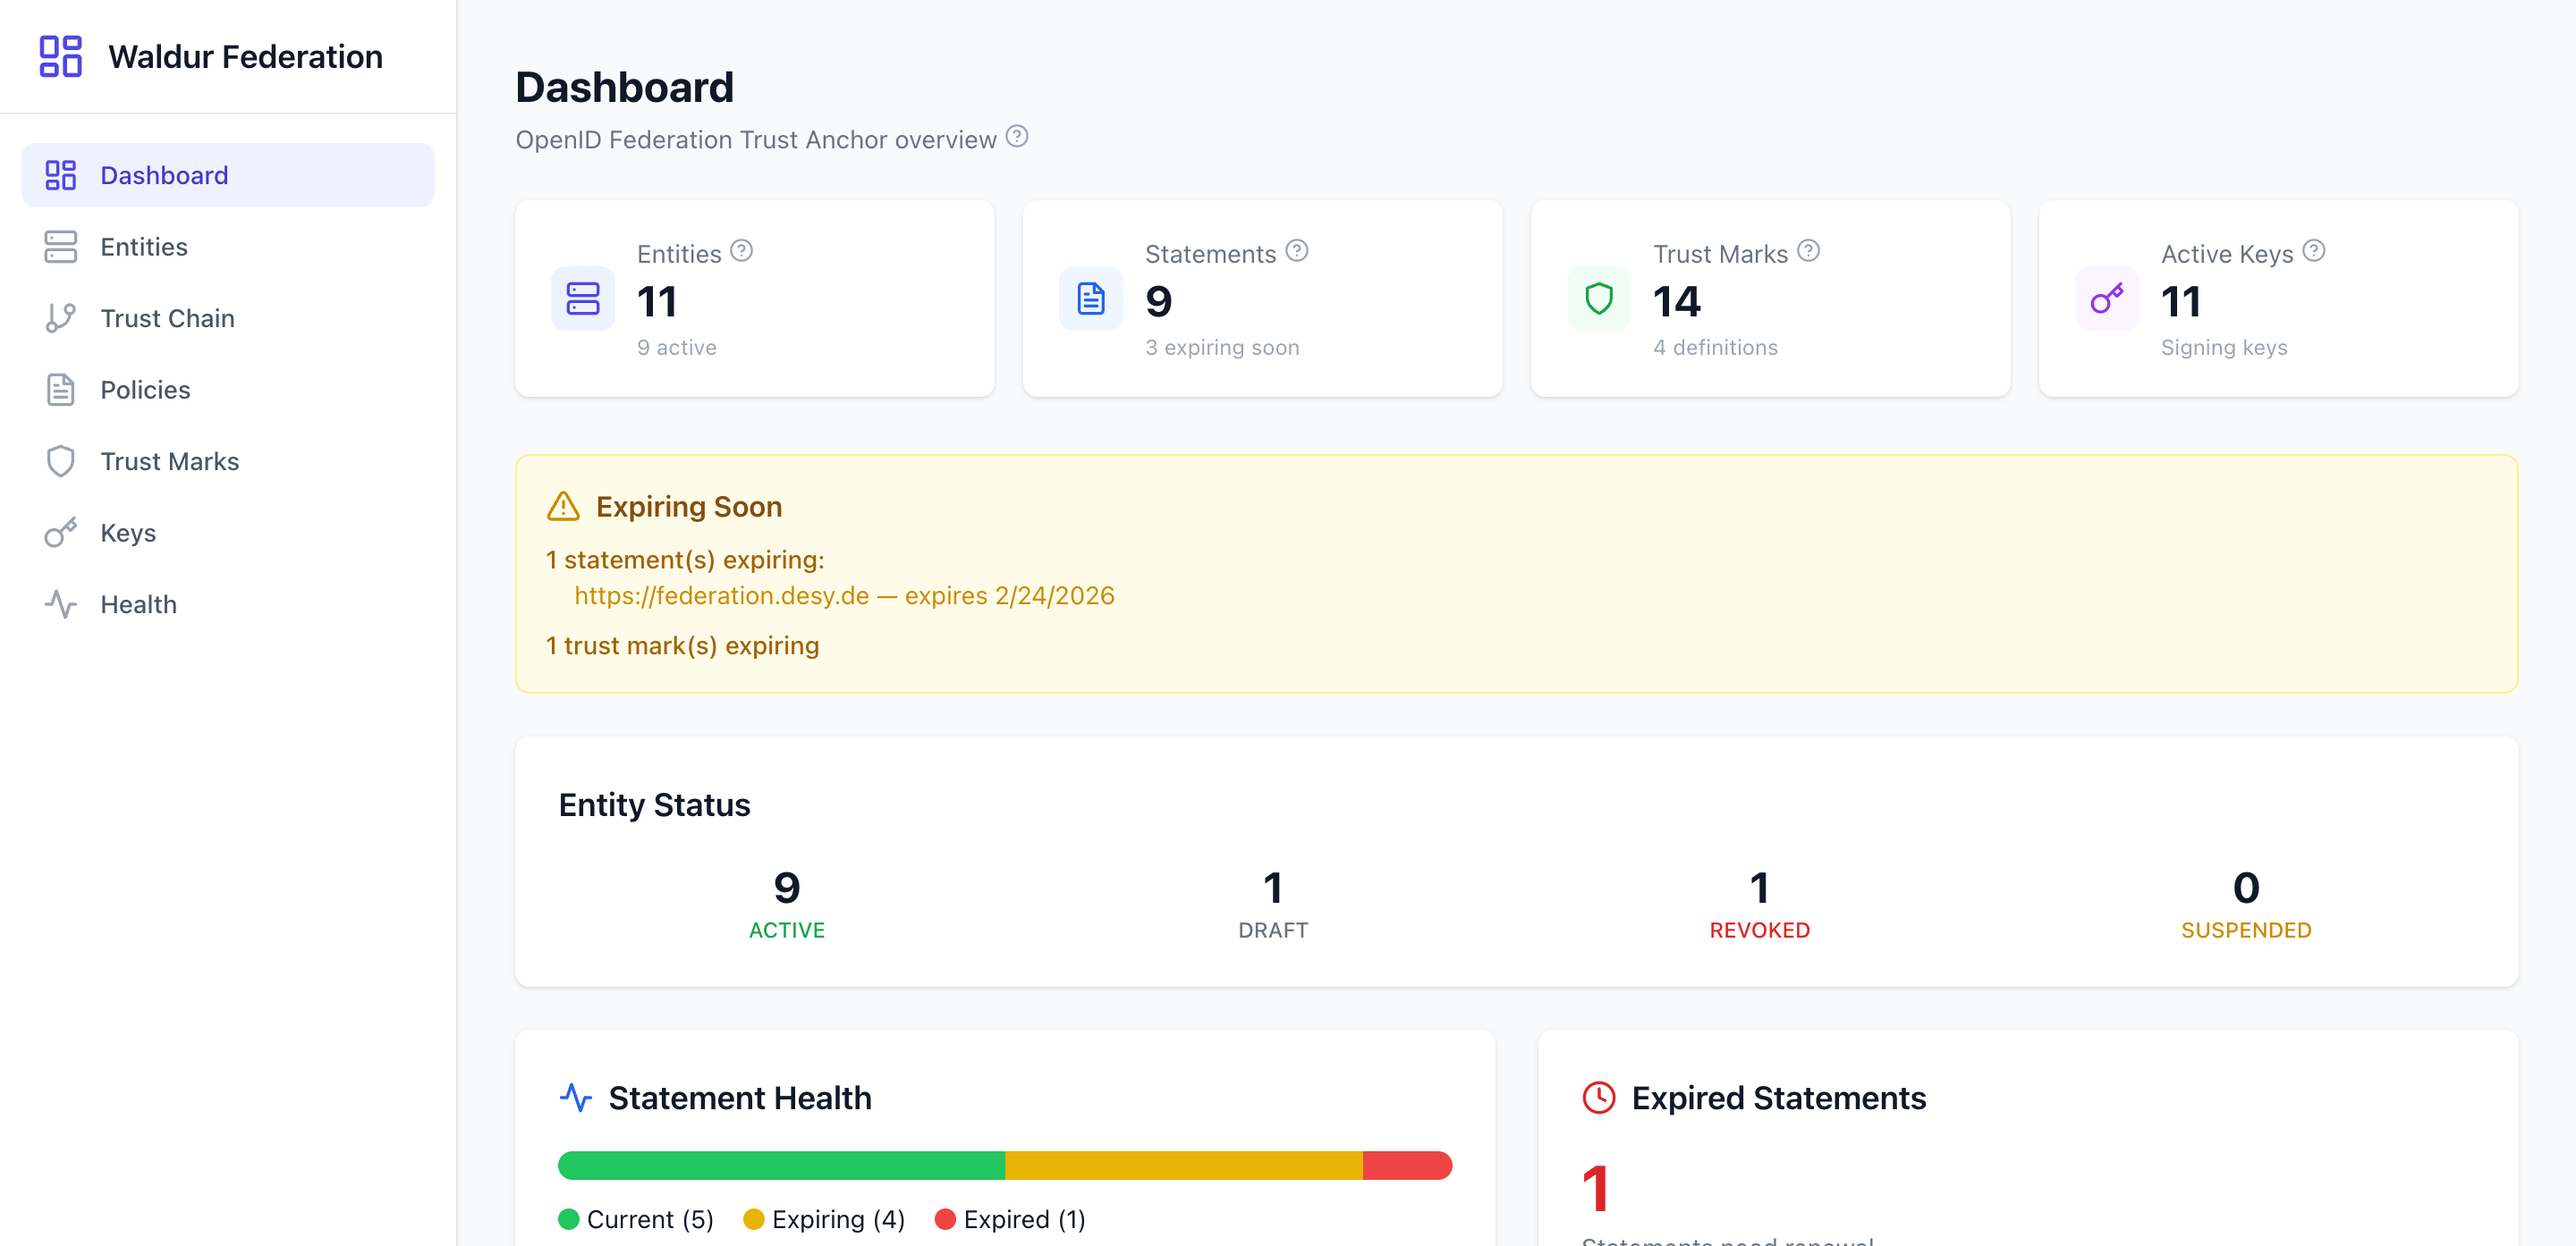
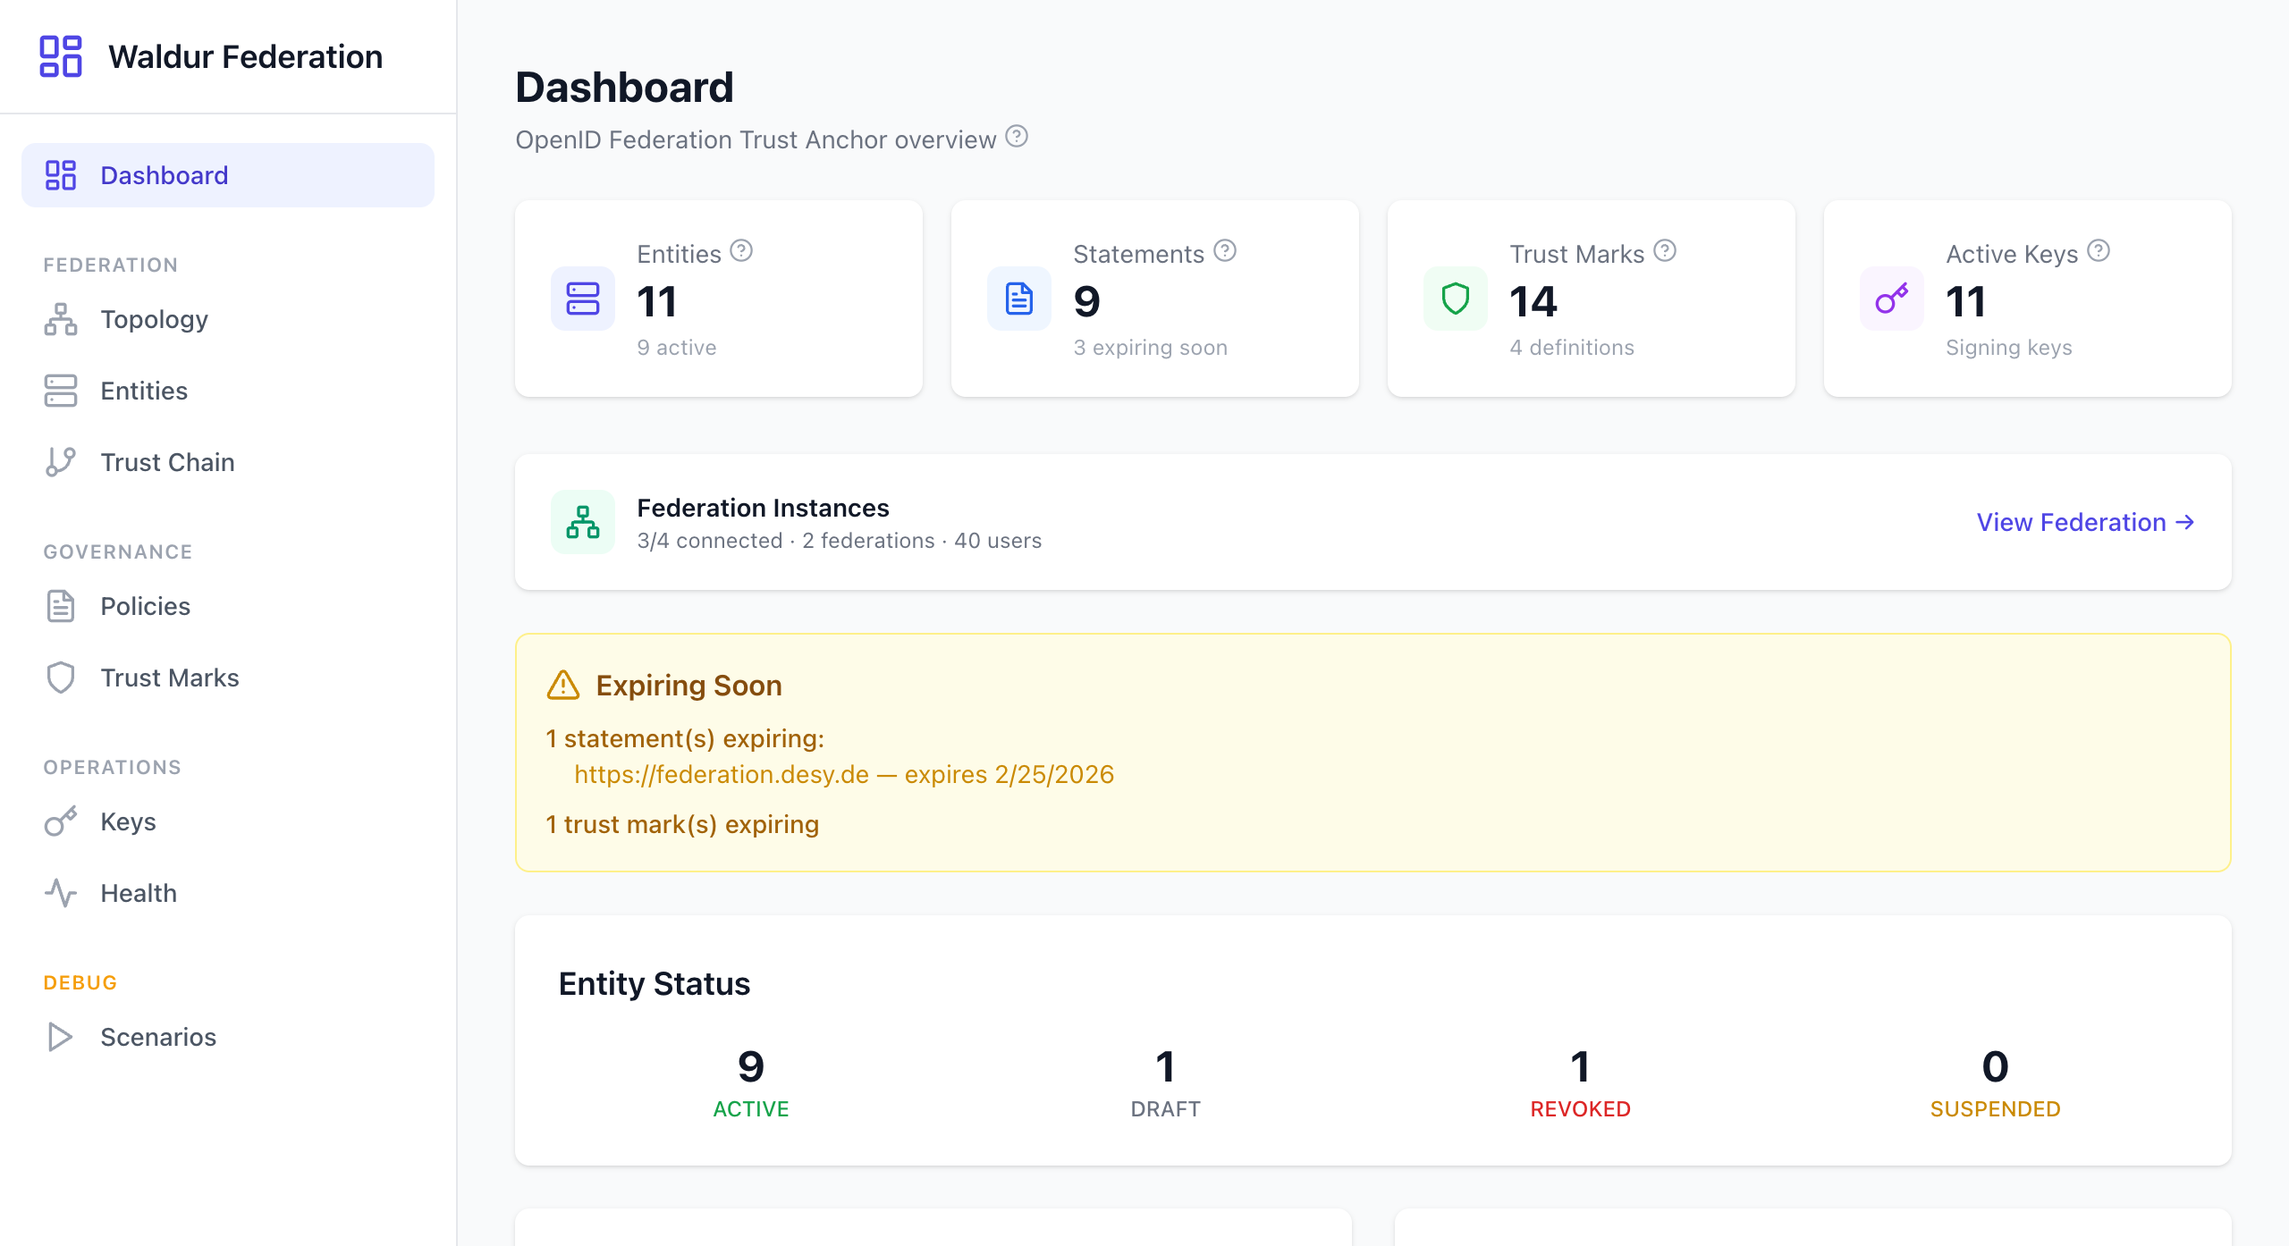
Update user guide with Federation, Scenarios, and entity policy sections
Add documentation for the Federation Topology page (instance cards,
topology graph, registration/removal) and Scenarios page (trust anchor,
federation, and security test categories). Update entity detail docs to
cover metadata policy, metadata override, and constraints display.
Refresh screenshots for updated sidebar and dashboard. Fix Vite proxy
so /federation serves the SPA instead of proxying to the backend.

diff --git a/frontend/vite.config.ts b/frontend/vite.config.ts
@@ -23,6 +23,12 @@ export default defineConfig({
       '/federation': {
         target: 'http://localhost:9000',
         changeOrigin: true,
+        bypass(req) {
+          // Don't proxy the bare /federation route — it's a frontend SPA page
+          if (req.url === '/federation' || req.url === '/federation/') {
+            return '/index.html';
+          }
+        },
       },
     },
   },

diff --git a/docs/user-guide.md b/docs/user-guide.md
@@ -26,17 +26,19 @@ This guide is written for **federation administrators** — the people responsib
 
 ## Navigation
 
-The application has a persistent sidebar on the left with seven main sections:
+The application has a persistent sidebar on the left organized into four groups:
 
-| Section | Description |
-|---------|-------------|
-| **Dashboard** | Overview of federation health, statistics, and recent activity |
-| **Entities** | Browse, register, and manage federation participants |
-| **Trust Chain** | Interactive graph visualization of the trust hierarchy |
-| **Policies** | Define metadata constraints and check compliance |
-| **Trust Marks** | Create trust mark definitions and issue marks to entities |
-| **Keys** | View and rotate entity signing keys |
-| **Health** | Monitor statement expiry and system health |
+| Group | Section | Description |
+|-------|---------|-------------|
+| — | **Dashboard** | Overview of federation health, statistics, and recent activity |
+| **Federation** | **Topology** | Waldur instance registration, connectivity graph, and push notifications |
+| | **Entities** | Browse, register, and manage federation participants |
+| | **Trust Chain** | Interactive graph visualization of the trust hierarchy |
+| **Governance** | **Policies** | Define metadata constraints and check compliance |
+| | **Trust Marks** | Create trust mark definitions and issue marks to entities |
+| **Operations** | **Keys** | View and rotate entity signing keys |
+| | **Health** | Monitor statement expiry and system health |
+| **Debug** | **Scenarios** | Run predefined test scenarios for federation and security workflows |
 
 Each page includes **Help** buttons (marked with "?") that provide contextual tooltips explaining federation concepts.
 
@@ -61,6 +63,7 @@ The top of the dashboard displays four **stat cards**:
 
 Below the stat cards, you'll find:
 
+- **Federation Instances** — A summary showing how many registered Waldur instances are connected, the number of federations, and total users. Click "View Federation →" to go to the Topology page.
 - **Expiring Soon** — A warning banner listing statements and trust marks that will expire within 7 days, with their exact expiry dates. This is your primary indicator for items needing immediate attention.
 - **Entity Status** — Breakdown of entities by status: Active, Draft, Revoked, and Suspended.
 - **Statement Health** — Distribution of statements across three categories: Current (valid and not expiring soon), Expiring (within 7 days), and Expired (need renewal).
@@ -147,6 +150,7 @@ The overview shows:
 - **Contacts** — Administrative email addresses
 - **Created / Updated** — Timestamps for tracking registration and changes
 - **Metadata** — Full JSON metadata including OpenID Provider configuration (scopes, signing algorithms, auth methods) and federation entity details
+- **Federation Policy** — If the entity has a current subordinate statement with a metadata policy, a summary is shown here. Displays the policy operators (e.g., `essential`, `one_of`, `add`) applied to each attribute, grouped by entity type. Click the help icon for an explanation of what metadata policies enforce.
 
 #### Statements Tab
 
@@ -155,8 +159,13 @@ The overview shows:
 Lists all subordinate statements where this entity is either the issuer or subject:
 
 - **From** — The issuing authority's entity ID
-- **Status** — Whether the statement is current or expired
+- **Status** — Whether the statement is current or historical
 - **Issued / Expires** — Timestamp range for the statement's validity
+- **Metadata Policy** — If present, shows the policy operators applied to each attribute, grouped by entity type (e.g., `contacts add: ["federation-ops@csc.fi"]`). These are the rules the Trust Anchor enforces on this entity's metadata.
+- **Metadata Override** — If present, shows the JSON values that the Trust Anchor sets on behalf of this entity (e.g., overriding `organization_name`).
+- **Constraints** — If present, shows constraints like `max_path_length` that limit the entity's role in the trust chain (0 = leaf entity, higher values allow further delegation).
+
+Each section includes a help tooltip explaining the concept.
 
 #### Trust Marks Tab
 
@@ -483,6 +492,120 @@ Detailed lists of items approaching expiry:
 - The expiry timestamp
 
 Use this page for daily operational monitoring. Statements that expire without renewal break the trust chain for the affected entities — their subordinate status can no longer be cryptographically verified by relying parties.
+
+---
+
+## Federation Topology
+
+The Topology page shows the registered Waldur instances that participate in the federation and their relationships to Trust Anchors.
+
+### Overview
+
+![Federation topology showing instance cards, summary stats, and topology graph](screenshots/23-federation-overview.png)
+
+The page is organized into:
+
+#### Summary Bar
+
+Five counters at the top:
+
+| Counter | Description |
+|---------|-------------|
+| **Instances** | Total registered Waldur instances |
+| **Healthy** | Instances that are reachable and responding |
+| **Federations** | Number of distinct Trust Anchors in use |
+| **Fed. Entities** | Total federation entities across all instances |
+| **Users** | Total users across all instances |
+
+#### Push + Pull Banner
+
+An info banner explaining that lifecycle changes (entity activation, suspension, revocation, and instance registration/removal) trigger push notifications to all registered instances. Instances also poll `/federation/list` as the authoritative source of truth per OIDC Federation 1.0.
+
+#### Instance Health Cards
+
+Each registered Waldur instance is shown as a card displaying:
+
+- **Status indicator** — Green dot for healthy, red for unhealthy, gray for unknown
+- **Name and Base URL** — The instance identifier and endpoint
+- **Trust Anchors** — Badges showing which federation Trust Anchors this instance trusts
+- **Entity and user counts** — How many entities and users the instance has
+- **Remove button** — Delete the instance from the federation (with confirmation dialog)
+
+#### Topology Graph
+
+An interactive graph visualization (powered by @xyflow and Dagre layout) showing:
+
+- **Trust Anchor nodes** — Purple/indigo gradient cards at the bottom representing federation roots
+- **Instance nodes** — Cards at the top with status-colored borders (green = healthy, red = unhealthy)
+- **Trust edges** — Dashed animated lines connecting instances to the Trust Anchors they trust
+
+The legend in the top-right explains the node and edge types. Click any node to open a detail panel showing connected instances or federation entities.
+
+### Registering an Instance
+
+Click "Register Instance" to add a new Waldur deployment. Provide:
+
+- **Name** — Human-readable instance name (e.g., "Waldur CSC")
+- **Base URL** — The instance's API endpoint (e.g., `http://localhost:9501`)
+
+### Removing an Instance
+
+Click the trash icon on any instance card. A confirmation dialog shows the impact: how many entities, users, and trust anchors are affected. All registered instances receive a push notification about the removal.
+
+---
+
+## Scenarios
+
+The Scenarios page provides a debug-only test runner for verifying federation workflows and security boundaries. It is only visible when the backend runs in debug mode (`DEBUG=true`).
+
+### Running Scenarios
+
+![Scenarios page showing categorized test scenarios with run buttons](screenshots/24-scenarios-list.png)
+
+Scenarios are organized into three categories:
+
+#### Trust Anchor
+
+Database-only scenarios that always work without external dependencies:
+
+| Scenario | Description |
+|----------|-------------|
+| **Register & Activate Entity** | Create an entity, activate it, and verify a subordinate statement and signing key are generated |
+| **Entity Lifecycle** | Walk an entity through the full lifecycle: create → activate → suspend → reactivate → revoke |
+| **Key Rotation** | Create and activate an entity, rotate its signing key, and verify the old key is ROTATED while the new key is ACTIVE |
+| **Trust Mark Lifecycle** | Create a trust mark definition, issue a trust mark to an entity, verify it is active, then revoke it |
+| **Instance Lifecycle** | Register a Waldur instance, verify it appears in the list, delete it, and verify removal |
+
+#### Federation
+
+Scenarios that require running mock Waldur instances (marked with a "mock instances" badge):
+
+| Scenario | Description |
+|----------|-------------|
+| **Identity Push** | Register an entity, build an identity JWT, push it to a mock Waldur instance, and verify acceptance |
+| **Multi-ISD Aggregation** | Create two entities, push the same user identity from both, and verify that attribute sources are merged |
+
+#### Security
+
+Attack vector tests that verify the federation rejects invalid or malicious requests (marked with "mock instances"):
+
+| Scenario | Description |
+|----------|-------------|
+| **Expired JWT Attack** | Build a JWT with a past expiration time and push it — expects rejection (401) |
+| **Invalid Signature Attack** | Sign a JWT with an unregistered key and push it — expects rejection (401) |
+| **Unknown Entity Attack** | Build a JWT from a non-existent entity and push it — expects rejection (401/403) |
+| **Policy Violation** | Create an entity with a metadata policy requiring email, then push with empty email — expects rejection (422) |
+
+### Scenario Results
+
+Click "Run" on any scenario to execute it. Each scenario displays step-by-step results with:
+
+- **Step name** — What was tested
+- **Status** — Passed (green), failed (red), or skipped (gray)
+- **Detail** — Description of the outcome
+- **Duration** — How long the step took
+
+The overall scenario result is shown as passed, failed, or partial.
 
 ---
 
